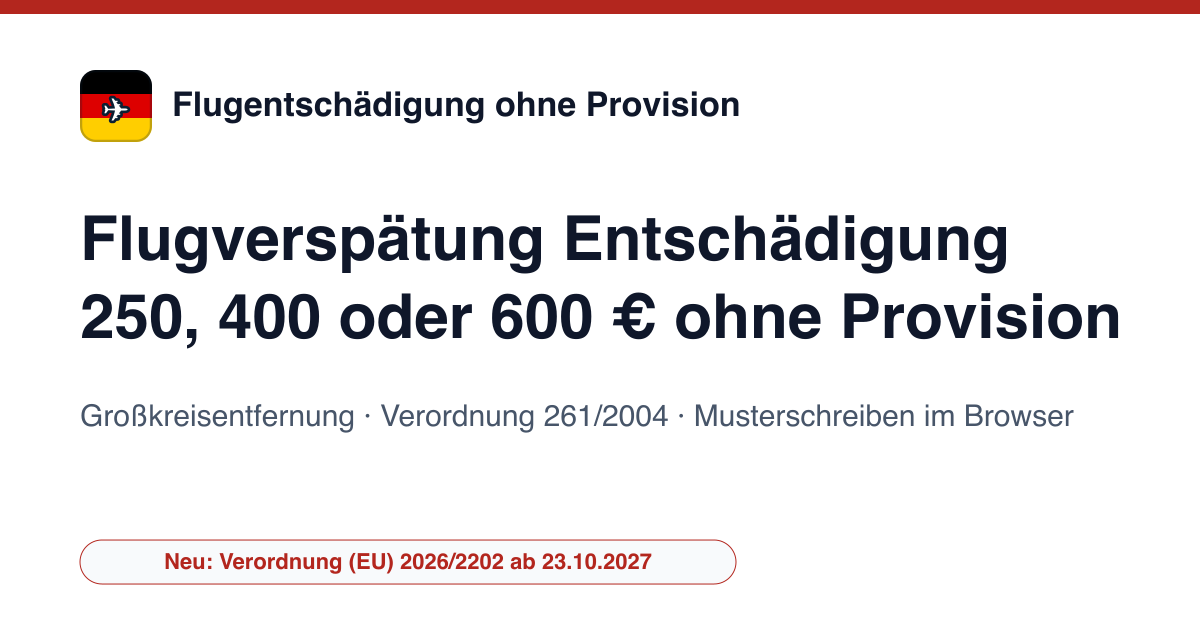
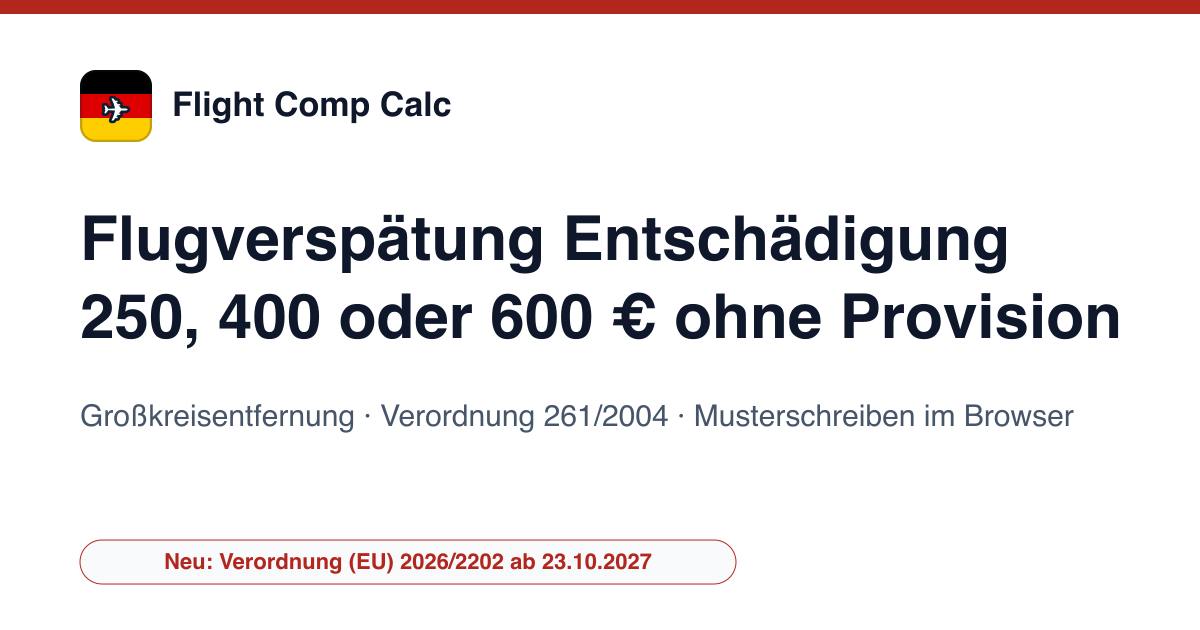
Renommage : flight-delay-compensation devient flightcompcalc.com (marque : Flugentschädigung ohne Provision=Flight Comp Calc, Flight Compensation Without Commission=Flight Comp Calc)
Domaine acheté le 2026-10-23 ; adresse, contact, robots, llms et images de partage mis à jour.

Changed region(s): [[0.1542, 0.1508, 0.6167, 0.2111]]

diff --git a/src/data/site-config.ts b/src/data/site-config.ts
@@ -1,6 +1,6 @@
 /** Configuration centrale du site (générée par new-site.py). */
-export const SITE_URL = "https://flight-delay-compensation.example";
-export const SITE_NAMES: Record<string, string> = {"de": "Flugentschädigung ohne Provision", "en": "Flight Compensation Without Commission", "fr": "Indemnité de vol sans commission"};
+export const SITE_URL = "https://flightcompcalc.com";
+export const SITE_NAMES: Record<string, string> = {"de": "Flight Comp Calc", "en": "Flight Comp Calc", "fr": "Indemnité de vol sans commission"};
 export const LANG_TAGS: Record<string, string> = {"de": "de-DE", "en": "en", "fr": "fr-CA"};
 export const OG_LOCALES: Record<string, string> = {"de": "de_DE", "en": "en_GB", "fr": "fr_CA"};
 export const LOCALE_TAG = 'de-DE';
@@ -16,7 +16,7 @@ export const AUTHOR_DESC: Record<string, string> = {"de": "Radif Partners misst 
  *  themes reellement traites par le site, pas une liste de mots-cles : un sujet
  *  declare ici sans page qui le couvre est une declaration fausse. */
 export const KNOWS_ABOUT: Record<string, string[]> = {"de": ["Verordnung (EG) Nr. 261/2004", "Verordnung (EU) 2026/2202", "Ausgleichszahlung bei Flugverspätung und Annullierung", "Großkreisentfernung", "Montrealer Übereinkommen (Gepäck)", "Fahrgastrechte im Bahnverkehr, Verordnung (EU) 2021/782"], "en": ["EU Regulation 261/2004", "UK261 (retained Regulation 261/2004)", "Canada Air Passenger Protection Regulations", "Great-circle distance", "Montreal Convention baggage limits"], "fr": ["Règlement sur la protection des passagers aériens", "Indemnisation des retards et annulations au Canada", "Refus d'embarquement", "Convention de Montréal (bagages)"]};
-export const CONTACT_EMAIL = "kontakt@flight-delay-compensation.example";
+export const CONTACT_EMAIL = "kontakt@flightcompcalc.com";
 export const THEME_COLOR = '#B3261E';
 export const LOGO_SYMBOL = '✈';
 export const BING_VERIFY_CODE = '';
